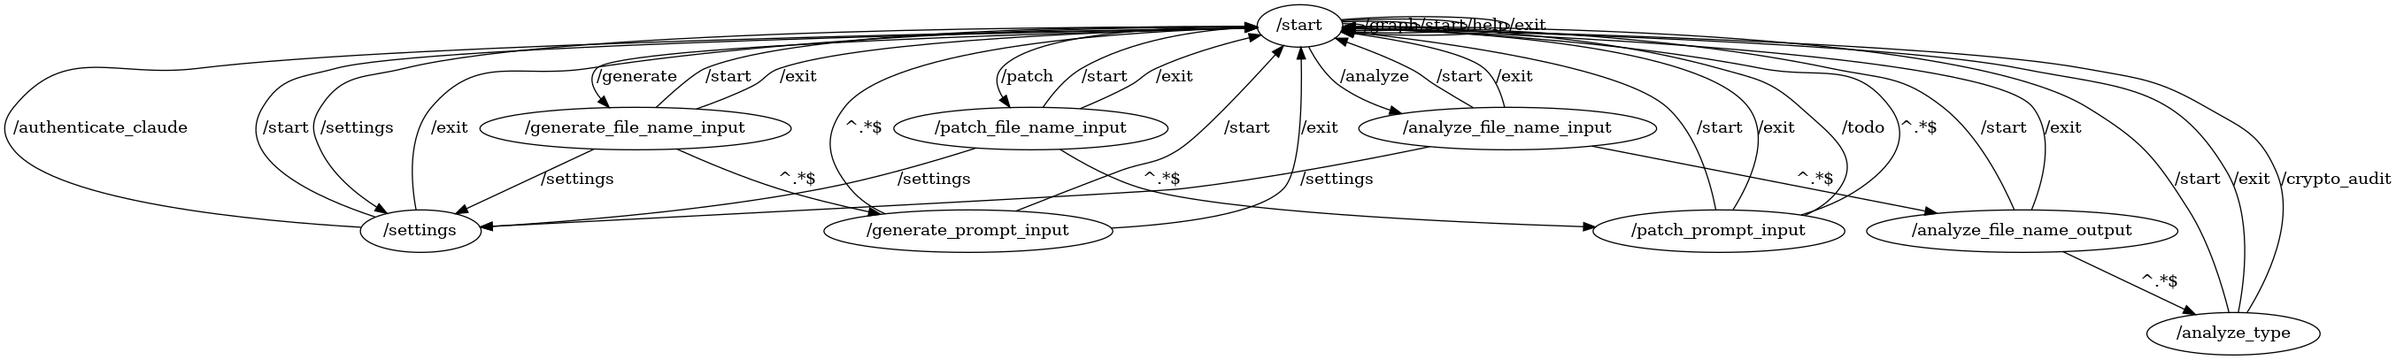
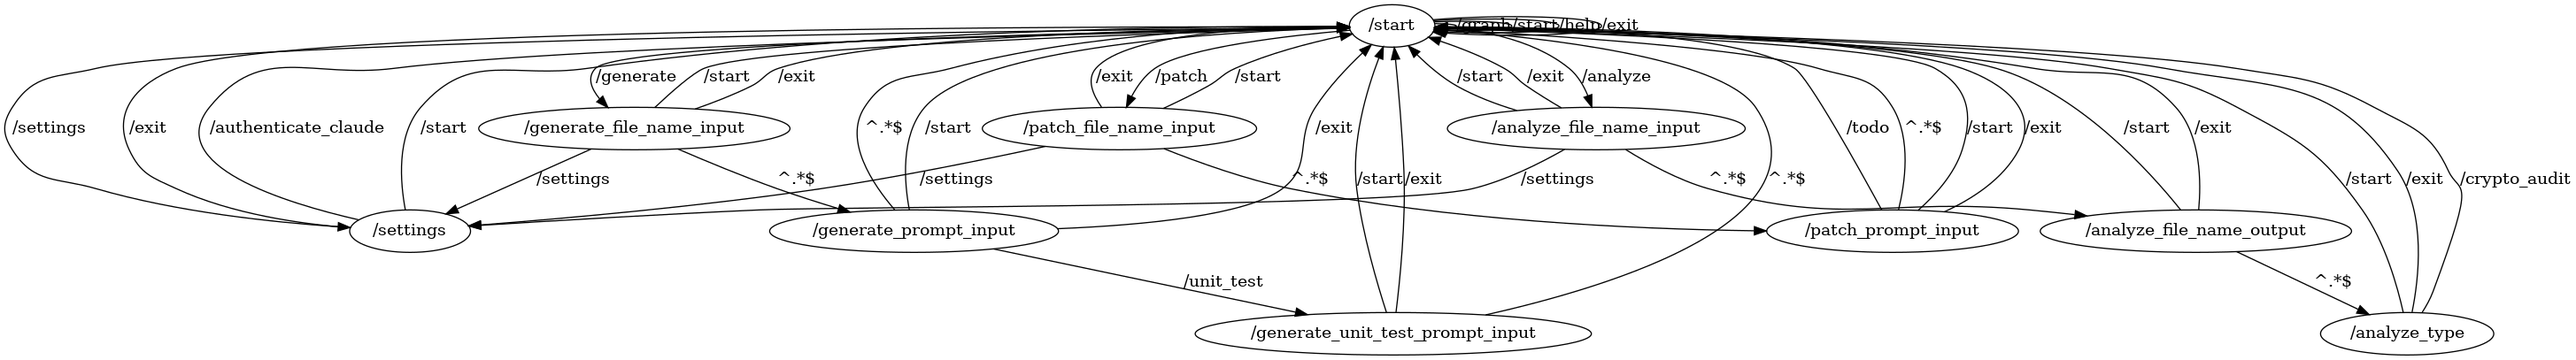
- generating unit tests.

diff --git a/flows/morph.py b/flows/morph.py
@@ -233,7 +233,7 @@ Therefore, we are using the Web API for accessing Claude:
             file_name = action['text']
             action["context"].add("generate_file_name", file_name)
             text = f"mrph> Ok, I will create a file \"{file_name}\" when finished. What should be in this file?"
-            await self.build_menu_response_transition(text, ['/unit_test', '*'])(action)
+            await self.build_menu_response_transition(text, ['Unit test', '*'])(action)
 
         return transition
 
@@ -300,6 +300,51 @@ Therefore, we are using the Web API for accessing Claude:
             text = f"mrph> Your \"{file_name}\" file was saved."
             await action["context"].bot.send_message(chat_id=action["update"]["effective_chat"]["id"], text=text)
             await nested_transition(action)
+
+        return transition
+
+    @staticmethod
+    def build_generate_unit_test_prompt_input_transition(nested_transition):
+
+        async def transition(action):
+
+            prompt = action['text']
+
+            # The dialog
+            dialog = LLMDialog()
+            dialog += build_current_project_context()
+            dialog.assign("user", "Please, generate a unit test for my project.")
+            dialog.assign("user", prompt)
+
+            response = MorphBot.augment_chat(dialog)
+            print(f"llm> {response}")
+
+            file_name = action["context"].get("generate_file_name")
+
+            # Parse code blocks
+            code_blocks = re.findall(r"```(.*?)\n(.*?)\n```", response, re.DOTALL)
+
+            # Save code blocks to a text file
+            for language, code_block in code_blocks:
+                with open(file_name, 'w', encoding='utf-8') as file:
+                    file.write(f"{code_block}\n")
+
+            text = f"mrph> Your \"{file_name}\" file was saved."
+            await action["context"].bot.send_message(chat_id=action["update"]["effective_chat"]["id"], text=text)
+            await nested_transition(action)
+
+        return transition
+
+    @staticmethod
+    def build_generate_prompt_input_unit_test_choice_transition():
+
+        async def transition(action):
+
+            file_name = action["context"].get("generate_file_name")
+
+            text = f"mrph> Will generate the \"{file_name}\" unit test. Please, describe, what should " \
+                   f"be checked in this test."
+            await action["context"].bot.send_message(chat_id=action["update"]["effective_chat"]["id"], text=text)
 
         return transition
 
@@ -459,7 +504,7 @@ Type "/help" for more.\n''',
             .edge("/start", "/start", "/help", on_transition=self.build_help_transition()) \
             .edge("/start", "/start", "/exit", on_transition=self.build_exit_transition()) \
             .edge("/start", "/generate_file_name_input", "/generate", on_transition=self.build_generate_transition()) \
-            .edge("/generate_file_name_input", "/start", "/start") \
+            .edge("/generate_file_name_input", "/start", "/start", on_transition=main_menu_transition) \
             .edge("/generate_file_name_input", "/start", "/exit", on_transition=self.build_exit_transition()) \
             .edge(
                 "/generate_file_name_input",
@@ -472,16 +517,29 @@ Type "/help" for more.\n''',
                 None,
                 matcher=re.compile("^.*$"),
                 on_transition=self.build_generate_file_name_input_transition()) \
-            .edge("/generate_prompt_input", "/start", "/start") \
+            .edge("/generate_prompt_input", "/start", "/start", on_transition=main_menu_transition) \
             .edge("/generate_prompt_input", "/start", "/exit", on_transition=self.build_exit_transition()) \
+            .edge(
+                "/generate_prompt_input",
+                "/generate_unit_test_prompt_input",
+                "/unit_test",
+                on_transition=self.build_generate_prompt_input_unit_test_choice_transition()) \
             .edge(
                 "/generate_prompt_input",
                 "/start",
                 None,
                 matcher=re.compile("^.*$"),
                 on_transition=self.build_generate_prompt_input_transition(main_menu_transition)) \
+            .edge("/generate_unit_test_prompt_input", "/start", "/start", on_transition=main_menu_transition) \
+            .edge("/generate_unit_test_prompt_input", "/start", "/exit", on_transition=self.build_exit_transition()) \
+            .edge(
+                "/generate_unit_test_prompt_input",
+                "/start",
+                None,
+                matcher=re.compile("^.*$"),
+                on_transition=self.build_generate_unit_test_prompt_input_transition(main_menu_transition)) \
             .edge("/start", "/patch_file_name_input", "/patch", on_transition=self.build_patch_transition()) \
-            .edge("/patch_file_name_input", "/start", "/start") \
+            .edge("/patch_file_name_input", "/start", "/start", on_transition=main_menu_transition) \
             .edge("/patch_file_name_input", "/start", "/exit", on_transition=self.build_exit_transition()) \
             .edge("/patch_file_name_input", "/settings", "/settings", on_transition=self.build_settings_transition()) \
             .edge(
@@ -490,7 +548,7 @@ Type "/help" for more.\n''',
                 None,
                 matcher=re.compile("^.*$"),
                 on_transition=self.build_patch_file_name_input_transition()) \
-            .edge("/patch_prompt_input", "/start", "/start") \
+            .edge("/patch_prompt_input", "/start", "/start", on_transition=main_menu_transition) \
             .edge("/patch_prompt_input", "/start", "/exit", on_transition=self.build_exit_transition()) \
             .edge(
                 "/patch_prompt_input",
@@ -504,7 +562,7 @@ Type "/help" for more.\n''',
                 matcher=re.compile("^.*$"),
                 on_transition=self.build_patch_prompt_input_transition(main_menu_transition)) \
             .edge("/start", "/analyze_file_name_input", "/analyze", on_transition=self.build_analyze_transition()) \
-            .edge("/analyze_file_name_input", "/start", "/start") \
+            .edge("/analyze_file_name_input", "/start", "/start", on_transition=main_menu_transition) \
             .edge("/analyze_file_name_input", "/settings", "/settings") \
             .edge("/analyze_file_name_input", "/start", "/exit", on_transition=self.build_exit_transition()) \
             .edge(
@@ -513,7 +571,7 @@ Type "/help" for more.\n''',
                 None,
                 matcher=re.compile("^.*$"),
                 on_transition=self.build_analyze_file_name_input_transition()) \
-            .edge("/analyze_file_name_output", "/start", "/start") \
+            .edge("/analyze_file_name_output", "/start", "/start", on_transition=main_menu_transition) \
             .edge("/analyze_file_name_output", "/start", "/exit", on_transition=self.build_exit_transition()) \
             .edge(
                 "/analyze_file_name_output",
@@ -521,7 +579,7 @@ Type "/help" for more.\n''',
                 None,
                 matcher=re.compile("^.*$"),
                 on_transition=self.build_analyze_file_name_output_transition()) \
-            .edge("/analyze_type", "/start", "/start") \
+            .edge("/analyze_type", "/start", "/start", on_transition=main_menu_transition) \
             .edge("/analyze_type", "/start", "/exit", on_transition=self.build_exit_transition()) \
             .edge(
                 "/analyze_type",

diff --git a/setup.py b/setup.py
@@ -2,7 +2,7 @@ from setuptools import setup
 
 setup(
     name="mrph",
-    version="1.0.21",
+    version="1.0.22",
     scripts=["bin/mrph"],
     py_modules=["flows.morph", "settings", "llm_dialog", "context_folder_dialog"],
     install_requires=['openai', 'python-dotenv',
